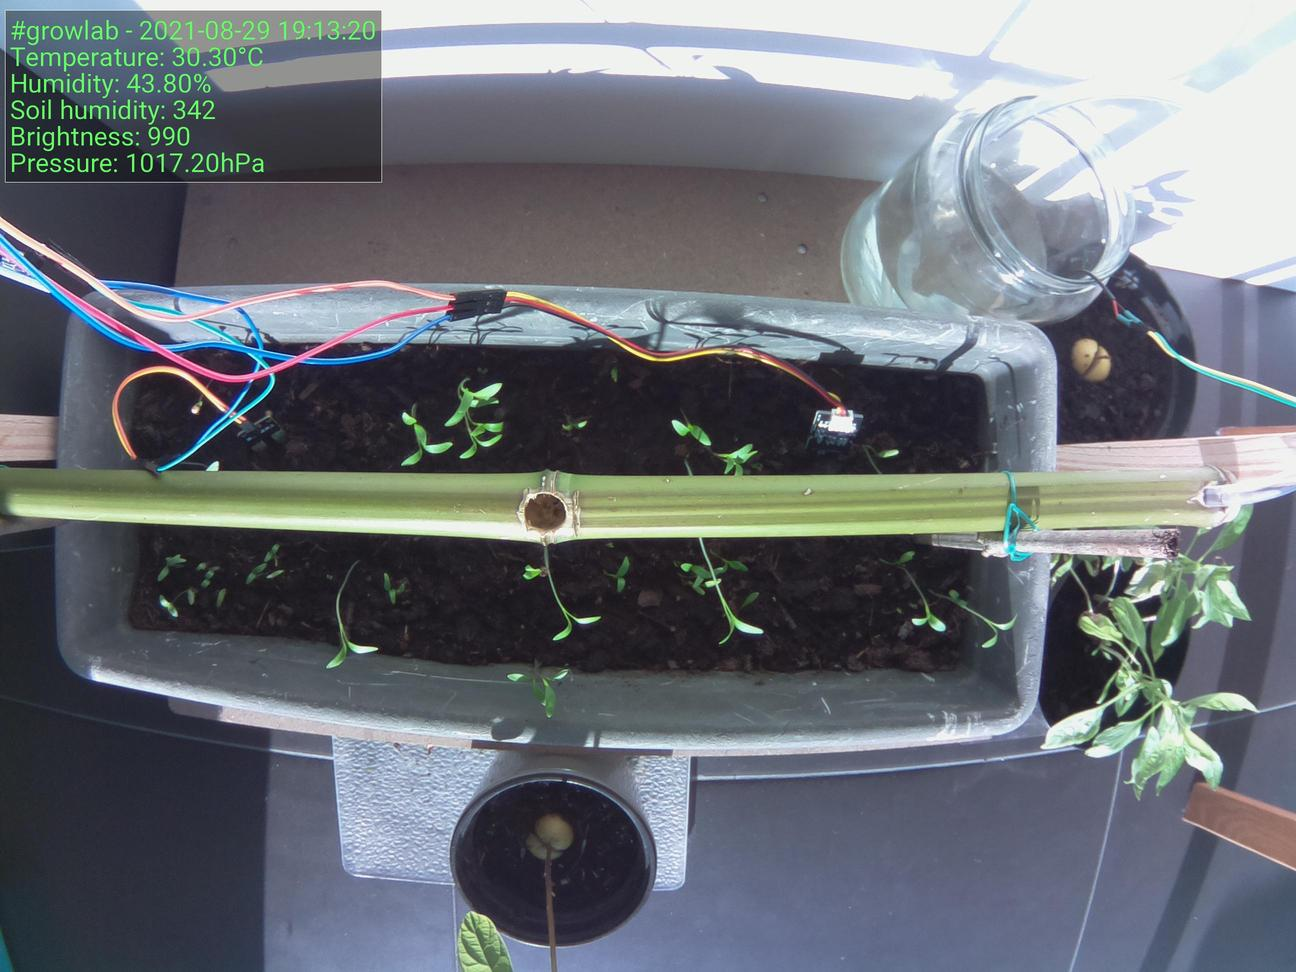
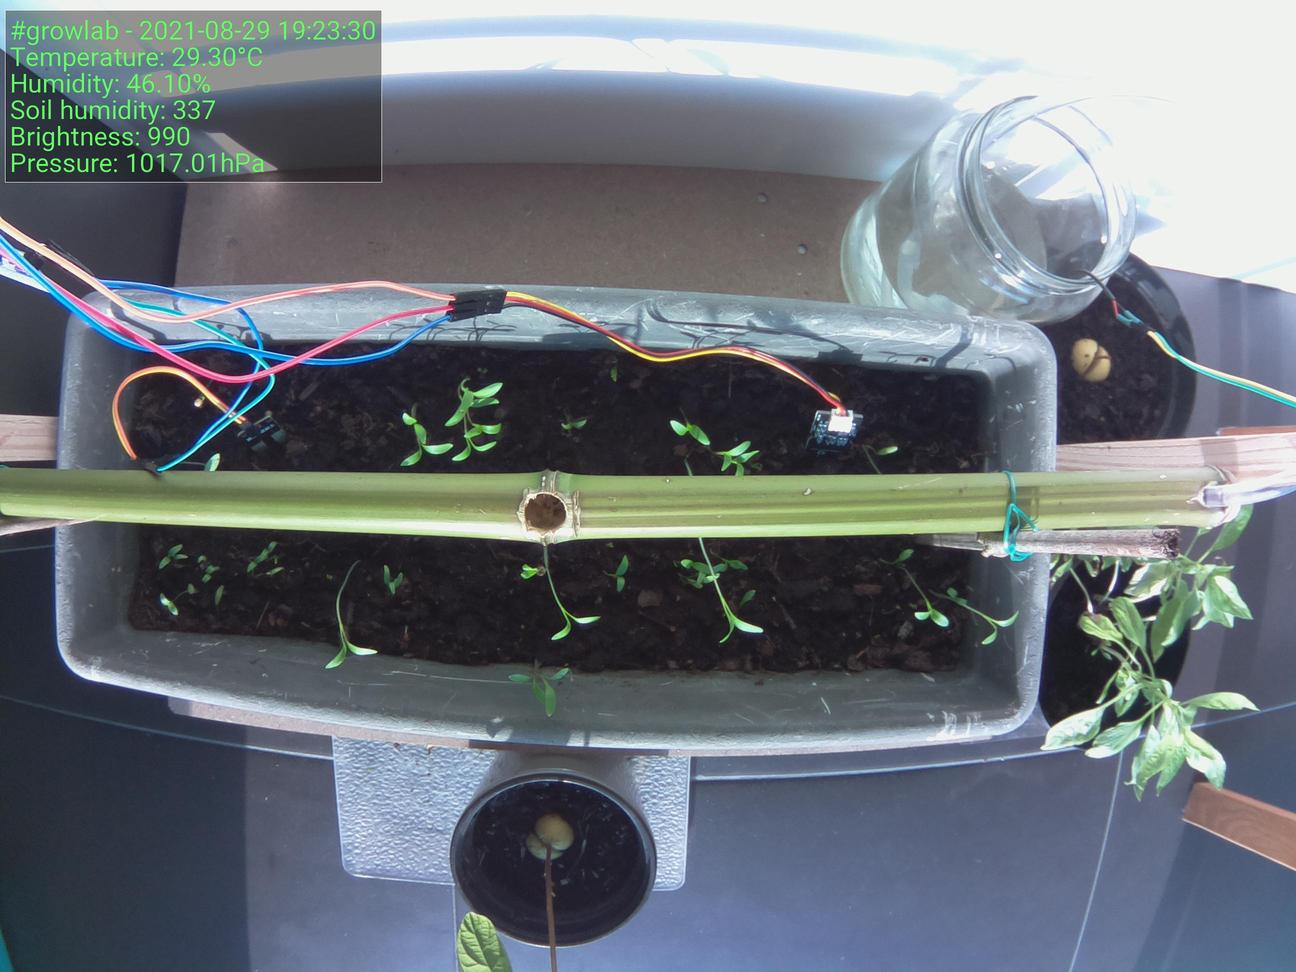
:bento: Update preview

diff --git a/index.html b/index.html
@@ -39,15 +39,15 @@
                     <tbody>
                         <tr>
                             <td>Time</td>
-                            <td>2021-08-29 19:13:20</td>
+                            <td>2021-08-29 19:23:30</td>
                         </tr>
                         <tr>
                             <td>Temperature</td>
-                            <td>30.30°C</td>
+                            <td>29.30°C</td>
                         </tr>
                         <tr>
                             <td>Humidity</td>
-                            <td>43.80%</td>
+                            <td>46.10%</td>
                         </tr>
                     </tbody>
                 </table>
@@ -55,7 +55,7 @@
 
                 <h5>Latest image</h5>
 		<div style="width: 85%;">
-	                <img class="figure-img img-fluid rounded" src="./preview.jpg?uid=1630257206.74286">
+	                <img class="figure-img img-fluid rounded" src="./preview.jpg?uid=1630257817.894904">
 		</div>
             </div>
         </div>
